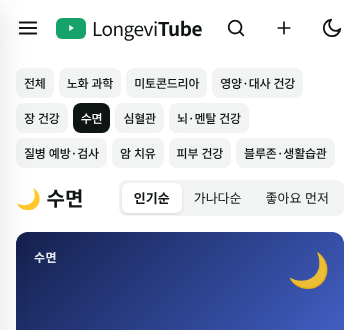
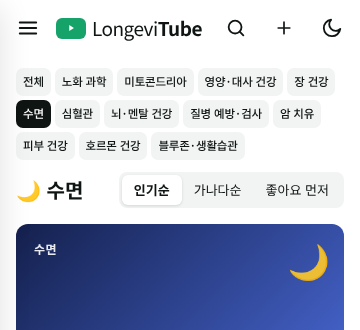
LongeviTube: add Hormone Health category with 13 popular videos (162 total)
Huberman Lab on testosterone and estrogen, Robert Sapolsky on stress
hormones, Lisa Mosconi and Mary Claire Haver on menopause (Diary of a CEO,
Huberman Lab, unPAUSED), Mayo Clinic thyroid episodes, TED-Ed, and Korean
menopause videos from Seoul National University Hospital and KBS. Also list
related existing videos under the new category, and shrink mobile chips at
370px and below to keep them on 3 rows.

Claude-Session: https://claude.ai/code/session_01DDEApv8yCx56XAxN8eZEXt

diff --git a/longevitube/js/data.js b/longevitube/js/data.js
@@ -27,6 +27,7 @@ const CATEGORIES = [
   { id: "prevention", name: "질병 예방·검사",   icon: "🩺" },
   { id: "cancer",     name: "암 치유",          icon: "🎗" },
   { id: "skin",       name: "피부 건강",         icon: "✨" },
+  { id: "hormone",    name: "호르몬 건강",        icon: "⚖" },
   { id: "bluezones",  name: "블루존·생활습관",   icon: "🌿" }
 ];
 
@@ -398,7 +399,7 @@ const VIDEOS = [
     speaker: "Mark Hyman", channel: "Summit",
     desc: "기능의학자 마크 하이먼이 노화의 특징(hallmarks of aging)이 모든 노화 관련 질환의 바탕이라는 관점에서 장수 전략을 설명합니다.",
     tags: ["노화특징", "기능의학", "장수"] },
-  { id: "attia-huberman-2", yt: "DTCmprPCDqc", cat: "bluezones", cats: ["metabolism", "aging"], level: "중급", format: "팟캐스트",
+  { id: "attia-huberman-2", yt: "DTCmprPCDqc", cat: "bluezones", cats: ["metabolism", "aging", "hormone"], level: "중급", format: "팟캐스트",
     title: "피터 아티아: 활력과 장수를 위한 운동·영양·호르몬",
     orig: "Dr. Peter Attia: Exercise, Nutrition, Hormones for Vitality & Longevity",
     speaker: "Peter Attia", channel: "Huberman Lab",
@@ -470,7 +471,7 @@ const VIDEOS = [
     speaker: "Chris Palmer", channel: "Huberman Lab",
     desc: "하버드 의대 정신과 의사 크리스 팔머가 『브레인 에너지』의 핵심 주장, 즉 정신질환을 뇌의 대사·미토콘드리아 기능 이상으로 보는 관점과 케톤 식단 연구를 이야기합니다. 아직 학계에서 검증 중인 가설입니다.",
     tags: ["브레인에너지", "정신건강", "케톤식단"] },
-  { id: "means-huberman", yt: "8qaBpM73NSk", cat: "mito", cats: ["metabolism"], level: "입문", format: "팟캐스트",
+  { id: "means-huberman", yt: "8qaBpM73NSk", cat: "mito", cats: ["metabolism", "hormone"], level: "입문", format: "팟캐스트",
     title: "케이시 민스: 대사·호르몬·혈당 조절을 개선해 건강을 바꾸는 법",
     orig: "Dr. Casey Means: Transform Your Health by Improving Metabolism, Hormone & Blood Sugar Regulation",
     speaker: "Casey Means", channel: "Huberman Lab",
@@ -596,7 +597,7 @@ const VIDEOS = [
     speaker: "Virend Somers", channel: "Mayo Clinic",
     desc: "버렌드 소머스 교수가 수면무호흡증이 고혈압, 부정맥(심방세동), 심부전, 뇌졸중 위험과 어떻게 연결되는지 설명합니다.",
     tags: ["수면무호흡", "심방세동", "심장병"] },
-  { id: "osa-menopause", yt: "u2RENZT0Pzk", cat: "sleep", level: "입문", format: "클립",
+  { id: "osa-menopause", yt: "u2RENZT0Pzk", cat: "sleep", cats: ["hormone"], level: "입문", format: "클립",
     title: "폐경과 수면무호흡증의 관계",
     orig: "Mayo Clinic Minute: Understanding the link between menopause and sleep apnea",
     speaker: "Mayo Clinic", channel: "Mayo Clinic",
@@ -884,7 +885,7 @@ const VIDEOS = [
     speaker: "Shereene Idriss", channel: "Dr. Shereene Idriss",
     desc: "40대에 나타나는 피부 변화(색소, 홍조, 탄력 저하)와 그에 맞는 관리법.",
     tags: ["40대", "색소", "홍조"] },
-  { id: "idriss-50s", yt: "ve54izFiAUY", cat: "skin", level: "입문", format: "클립",
+  { id: "idriss-50s", yt: "ve54izFiAUY", cat: "skin", cats: ["hormone"], level: "입문", format: "클립",
     title: "50대 이상·갱년기 피부를 위한 안티에이징 스킨케어",
     orig: "Anti-Aging Skincare for 50s+, Mature Skin, & Menopause",
     speaker: "Shereene Idriss", channel: "Dr. Shereene Idriss",
@@ -931,5 +932,83 @@ const VIDEOS = [
     orig: "피부과 전문의들이 실제로 사용하는 스킨케어 제품 공개 feat 레티노이드",
     speaker: "피부과 전문의", channel: "YouTube",
     desc: "피부과 전문의들이 직접 쓰는 기본 스킨케어 구성과 레티노이드 사용 경험을 소개합니다.",
-    tags: ["스킨케어", "레티노이드", "한국어"] }
+    tags: ["스킨케어", "레티노이드", "한국어"] },
+  { id: "huberman-te", yt: "qJXKhu5UZwk", cat: "hormone", level: "중급", format: "팟캐스트",
+    title: "테스토스테론과 에스트로겐을 최적화하는 과학",
+    orig: "The Science of How to Optimize Testosterone & Estrogen",
+    speaker: "Andrew Huberman", channel: "Huberman Lab",
+    desc: "남녀 모두에게 중요한 성호르몬 테스토스테론과 에스트로겐이 몸과 뇌에서 하는 일, 그리고 수면·운동·영양 등 생활습관으로 호르몬 균형을 지키는 방법을 다룹니다.",
+    tags: ["테스토스테론", "에스트로겐", "성호르몬"] },
+  { id: "huberman-te-essentials", yt: "v4HRWgwjP_k", cat: "hormone", level: "입문", format: "팟캐스트",
+    title: "[요약판] 테스토스테론과 에스트로겐 최적화",
+    orig: "Essentials: How to Optimize Testosterone & Estrogen",
+    speaker: "Andrew Huberman", channel: "Huberman Lab",
+    desc: "위 에피소드의 핵심만 압축한 Huberman Lab Essentials 버전.",
+    tags: ["테스토스테론", "에스트로겐", "요약"] },
+  { id: "sapolsky-huberman", yt: "DtmwtjOoSYU", cat: "hormone", cats: ["mental"], level: "중급", format: "팟캐스트",
+    title: "로버트 새폴스키: 스트레스, 테스토스테론, 그리고 자유의지의 과학",
+    orig: "Dr. Robert Sapolsky: Science of Stress, Testosterone & Free Will",
+    speaker: "Robert Sapolsky", channel: "Huberman Lab",
+    desc: "『스트레스』(Why Zebras Don't Get Ulcers)의 저자인 스탠퍼드 신경내분비학자 로버트 새폴스키가 스트레스 호르몬(코르티솔)과 테스토스테론이 행동·건강에 미치는 영향을 이야기합니다.",
+    tags: ["코르티솔", "스트레스", "테스토스테론"] },
+  { id: "menopause-brain-huberman", yt: "p7mE8JEh5cQ", cat: "hormone", cats: ["mental"], level: "중급", format: "클립",
+    title: "폐경과 에스트로겐은 뇌 기능에 어떤 영향을 줄까",
+    orig: "How Menopause & Estrogen Impact Brain Function",
+    speaker: "Mark D'Esposito", channel: "Huberman Lab",
+    desc: "UC버클리 신경과학자 마크 데스포지토가 에스트로겐 수치가 인지 기능과 도파민에 미치는 영향, 폐경기 뇌 변화를 설명합니다.",
+    tags: ["폐경", "에스트로겐", "인지기능"] },
+  { id: "mosconi-doac", yt: "Cgo2mD4Pc54", cat: "hormone", cats: ["mental"], level: "입문", format: "팟캐스트",
+    title: "폐경 의사: 폐경은 뇌를 바꾼다 — 리사 모스코니",
+    orig: "The Menopause Doctor: This Diet Delays Menopause! Menopause Is Shrinking Your Brain! Dr Lisa Mosconi",
+    speaker: "Lisa Mosconi", channel: "The Diary Of A CEO",
+    desc: "웨일 코넬 여성 뇌 연구소장 리사 모스코니가 『폐경기 뇌(The Menopause Brain)』의 핵심 — 폐경이 뇌의 구조·에너지 대사에 주는 변화와 식단·생활습관의 역할을 이야기합니다.",
+    tags: ["폐경", "여성뇌", "알츠하이머"] },
+  { id: "haver-doac", yt: "oQqcnYcKx68", cat: "hormone", level: "입문", format: "팟캐스트",
+    title: "폐경 전문의: 폐경에 대해 잘못 알려진 것들 — 메리 클레어 헤이버",
+    orig: "The No.1 Menopause Doctor: They're Lying To You About Menopause! Mary Claire Haver",
+    speaker: "Mary Claire Haver", channel: "The Diary Of A CEO",
+    desc: "산부인과 전문의 메리 클레어 헤이버가 폐경·갱년기 증상, 호르몬 치료(HRT)에 대한 오해와 최신 근거를 이야기합니다. 호르몬 치료 여부는 개인 위험요인에 따라 의료진과 결정하세요.",
+    tags: ["갱년기", "호르몬치료", "HRT"] },
+  { id: "haver-huberman", yt: "6P8hrzjnetU", cat: "hormone", level: "중급", format: "팟캐스트",
+    title: "메리 클레어 헤이버: 폐경·폐경 전후기를 건강하게 보내는 법",
+    orig: "Dr. Mary Claire Haver: How to Navigate Menopause & Perimenopause for Maximum Health & Vitality",
+    speaker: "Mary Claire Haver", channel: "Huberman Lab",
+    desc: "폐경 전후기(perimenopause)의 증상, 호르몬 치료의 장단점, 근력운동·영양 등 생활습관 전략을 휴버먼과 함께 다룹니다.",
+    tags: ["폐경전후기", "호르몬치료", "근력운동"] },
+  { id: "haver-mosconi", yt: "tdiRhSBBYbs", cat: "hormone", cats: ["mental"], level: "중급", format: "팟캐스트",
+    title: "폐경기의 브레인 포그, 기억력 저하, 알츠하이머 위험",
+    orig: "Brain Fog, Memory Loss, and Alzheimer's Risk During Menopause with Dr. Lisa Mosconi",
+    speaker: "Lisa Mosconi", channel: "unPAUSED with Dr. Mary Claire Haver",
+    desc: "메리 클레어 헤이버와 리사 모스코니가 폐경기에 흔한 브레인 포그와 기억력 변화, 여성의 알츠하이머 위험을 이야기합니다.",
+    tags: ["브레인포그", "폐경", "알츠하이머"] },
+  { id: "thyroid-mayo", yt: "jl65GULkC0I", cat: "hormone", level: "입문", format: "팟캐스트",
+    title: "갑상선 기능 저하증 — 메이오 클리닉 라디오",
+    orig: "Hypothyroidism: Mayo Clinic Radio",
+    speaker: "Hossein Gharib", channel: "Mayo Clinic",
+    desc: "메이오 클리닉 내분비내과 호세인 가리브 교수가 갑상선 기능 저하증의 증상, 진단, 치료를 설명합니다.",
+    tags: ["갑상선", "기능저하증", "내분비"] },
+  { id: "thyroid-overtreat", yt: "1Vr0JxoCd9E", cat: "hormone", level: "입문", format: "팟캐스트",
+    title: "갑상선 기능 저하증, 과잉 치료되고 있다?",
+    orig: "Mayo Clinic Q&A podcast: Overtreating an underactive thyroid",
+    speaker: "Juan Brito Campana", channel: "Mayo Clinic",
+    desc: "갑상선 기능 항진·저하·하시모토병 등 주요 갑상선 질환과, 특히 고령층에서 갑상선 약이 과하게 처방되는 문제를 다룹니다.",
+    tags: ["갑상선", "하시모토", "과잉치료"] },
+  { id: "tedEd-menstruation", yt: "ayzN5f3qN8g", cat: "hormone", level: "입문", format: "애니메이션",
+    title: "월경 주기는 어떻게 작동할까",
+    orig: "How menstruation works - Emma Bryce",
+    speaker: "Emma Bryce", channel: "TED-Ed",
+    desc: "에스트로겐·프로게스테론 등 호르몬이 월경 주기를 어떻게 조절하는지 설명하는 TED-Ed 애니메이션.",
+    tags: ["월경", "프로게스테론", "애니메이션"] },
+  { id: "menopause-snuh", yt: "5yg9AkoNEHY", cat: "hormone", level: "입문", format: "강연",
+    title: "여성 갱년기 건강관리",
+    orig: "여성갱년기 건강관리 / 서울대병원 가정의학과 조비룡",
+    speaker: "조비룡", channel: "서울대병원",
+    desc: "서울대병원 가정의학과 조비룡 교수가 갱년기 증상과 건강하게 보내는 생활관리법을 설명합니다.",
+    tags: ["갱년기", "생활관리", "한국어"] },
+  { id: "menopause-kbs", yt: "qCE45vEyqcs", cat: "hormone", level: "입문", format: "다큐",
+    title: "호르몬으로 인한 갱년기 증후군의 증상과 치료",
+    orig: "호르몬으로 인한 갱년기증후군의 증상과 치료 방법 (KBS 20221228 방송)",
+    speaker: "KBS 생로병사의 비밀", channel: "KBS",
+    desc: "세브란스병원 산부인과 의료진이 출연해 갱년기 증상과 호르몬 치료의 득과 실을 짚어보는 KBS 방송.",
+    tags: ["갱년기", "호르몬치료", "한국어"] }
 ];

diff --git a/longevitube/js/app.js b/longevitube/js/app.js
@@ -11,7 +11,7 @@
   const GRAD = {
     aging: ["#3b2a8f", "#7b5cff"], mito: ["#7a3d00", "#ffb020"],
     metabolism: ["#2f7d1f", "#9bd24a"], gut: ["#8a2f5b", "#f07aa8"], sleep: ["#14204d", "#4a6ad8"],
-    heart: ["#8f1330", "#ff4f6d"], mental: ["#5b1d7a", "#d05ce3"], prevention: ["#7a1010", "#e0574a"], cancer: ["#1f4e79", "#5aa9e6"], skin: ["#a14a2a", "#f5b38a"],
+    heart: ["#8f1330", "#ff4f6d"], mental: ["#5b1d7a", "#d05ce3"], prevention: ["#7a1010", "#e0574a"], cancer: ["#1f4e79", "#5aa9e6"], skin: ["#a14a2a", "#f5b38a"], hormone: ["#6b2d6b", "#e48ad1"],
     bluezones: ["#0d4a35", "#3fbf7f"]
   };
 

diff --git a/longevitube/css/style.css b/longevitube/css/style.css
@@ -308,3 +308,7 @@ body.mini .side-group { border: 0; }
   .chip { height: 30px; padding: 0 8px; font-size: 12px; letter-spacing: -.2px; }
 }
 
+@media (max-width: 370px) {
+  .chips { gap: 4px; }
+  .chip { height: 28px; padding: 0 7px; font-size: 11.5px; border-radius: 7px; }
+}

diff --git a/longevitube/README.md b/longevitube/README.md
@@ -17,7 +17,7 @@
 - `cats`: 추가 카테고리 배열 (예: `cats: ["mental", "bluezones"]`) → 여러 카테고리 목록에 함께 표시
 - `yt`가 없으면 `q`(검색어)로 유튜브 검색 결과로 연결 (썸네일은 카테고리 색상으로 자동 생성)
 
-기본으로 들어 있는 TED·Huberman Lab·Lex Fridman 등 널리 시청된 실제 유튜브 영상 149개입니다 (배열 순서 = 인기순).
+기본으로 들어 있는 TED·Huberman Lab·Lex Fridman 등 널리 시청된 실제 유튜브 영상 162개입니다 (배열 순서 = 인기순).
 직접 확인한 영상 ID를 `yt`에 채우면 바로 임베드됩니다.
 
 ## 구조
